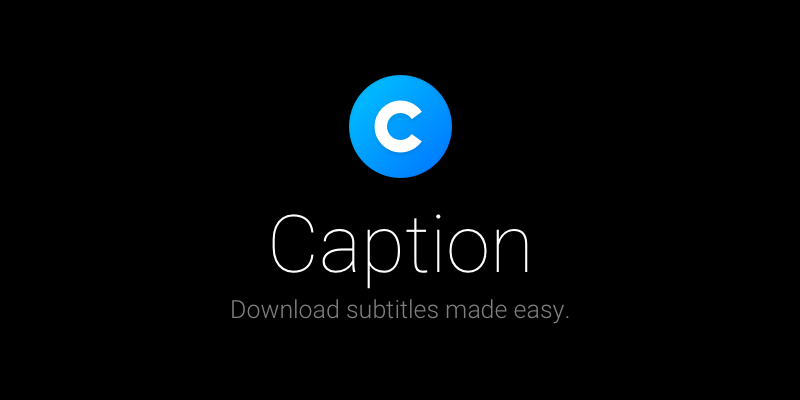
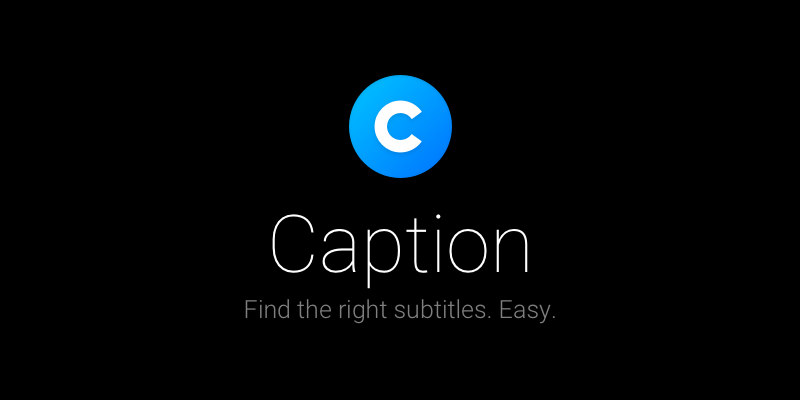
Changed copy

Changed region(s): [[0.2812, 0.75, 0.7188, 0.81]]

diff --git a/templates/base.html b/templates/base.html
@@ -4,12 +4,12 @@
 	<meta charset="utf-8">
 	<meta http-equiv="X-UA-Compatible" content="IE=edge,chrome=1">
 
-	<title>{% block title %}Caption - Downloading subtitles made easy.{% endblock %}</title>
+	<title>{% block title %}Caption — Find the right subtitles. Easy.{% endblock %}</title>
 
 	<!-- Search engines -->
 	<link rel="canonical" href="http://getcaption.co/index.html">
-	<meta name="description" content="An open source app that makes downloading subtitles distration free.">
-	<meta name="keywords" content="Subtitle tool, subtitles, interaction design, interaction, javascript, animation, macOS, online">
+	<meta name="description" content="The open source, distraction-free way to easily find the right subtitles.">
+	<meta name="keywords" content="Subtitle tool, subtitles, app, javascript, macOS, online, opensubtitles, open-source, electron, react">
 
 	<!-- Mobile viewport -->
 	<meta name="viewport" content="width=device-width, initial-scale=1, user-scalable=no">
@@ -36,22 +36,22 @@
 
 	<!-- Facebook -->
 	<meta property="og:url" content="http://getcaption.co/">
-	<meta property="og:title" content="Subtitle app for Mac">
-	<meta property="og:description" content="An open source app that makes downloading subtitles distration free.">
+	<meta property="og:title" content="Caption for Mac">
+	<meta property="og:description" content="The open source, distraction-free way to easily find the right subtitles.">
 	<meta property="og:image" content="http://getcaption.co/assets/static/images/social/social.png">
 
 	<!-- Twitter -->
 	<meta name="twitter:card" content="photo">
 	<meta name="twitter:site" content="@gielcobben">
 	<meta name="twitter:creator" content="@gielcobben">
-	<meta name="twitter:title" content="Subtitle app for Mac">
-	<meta name="twitter:description" content="An open source app that makes downloading subtitles distration free." />
+	<meta name="twitter:title" content="Caption for Mac">
+	<meta name="twitter:description" content="The open source, distraction-free way to easily find the right subtitles." />
 	<meta name="twitter:image:src" content="http://getcaption.co/assets/static/images/social/social.png">
 	<meta name="twitter:domain" content="http://getcaption.co/">
 
 	<!-- Microdata -->
-	<meta itemprop="name" content="Subtitle app for Mac">
-	<meta itemprop="description" content="An open source app that makes downloading subtitles distration free.">
+	<meta itemprop="name" content="Caption for Mac">
+	<meta itemprop="description" content="The open source, distraction-free way to easily find the right subtitles.">
 	<meta itemprop="image" content="http://getcaption.co/assets/static/images/social/social.png">
 
 	{% block header %}

diff --git a/pages/index.html b/pages/index.html
@@ -5,7 +5,7 @@
 	<header>
 		Caption is made with love by <a href="https://twitter.com/gielcobben">@gielcobben</a>.
 		<div class="social">
-			<a href="https://twitter.com/share" class="twitter-share-button" data-text="Caption is a free and open source app where you can download subtitles. http://getcaption.co/ by @gielcobben" data-url="false" data-show-count="false">Tweet</a>
+			<a href="https://twitter.com/share" class="twitter-share-button" data-text="Caption — The open source, distraction-free way to easily find the right subtitles. http://getcaption.co/ by @gielcobben" data-url="false" data-show-count="false">Tweet</a>
 			<div class="fb-like" data-href="http://getcaption.co/" data-layout="button" data-action="like" data-size="small" data-show-faces="false" data-share="true"></div>
 		</div>
 	</header>
@@ -15,7 +15,7 @@
 		</section>
 		<section class="half">
 			<h1>Caption</h1>
-			<p>Downloading subtitles made easy.</p>
+			<p>Find the right subtitles. Easy.</p>
 			<ul>
 				<li class="icon icon-textsearch"></li>
 				<li class="icon icon-dragdrop"></li>
